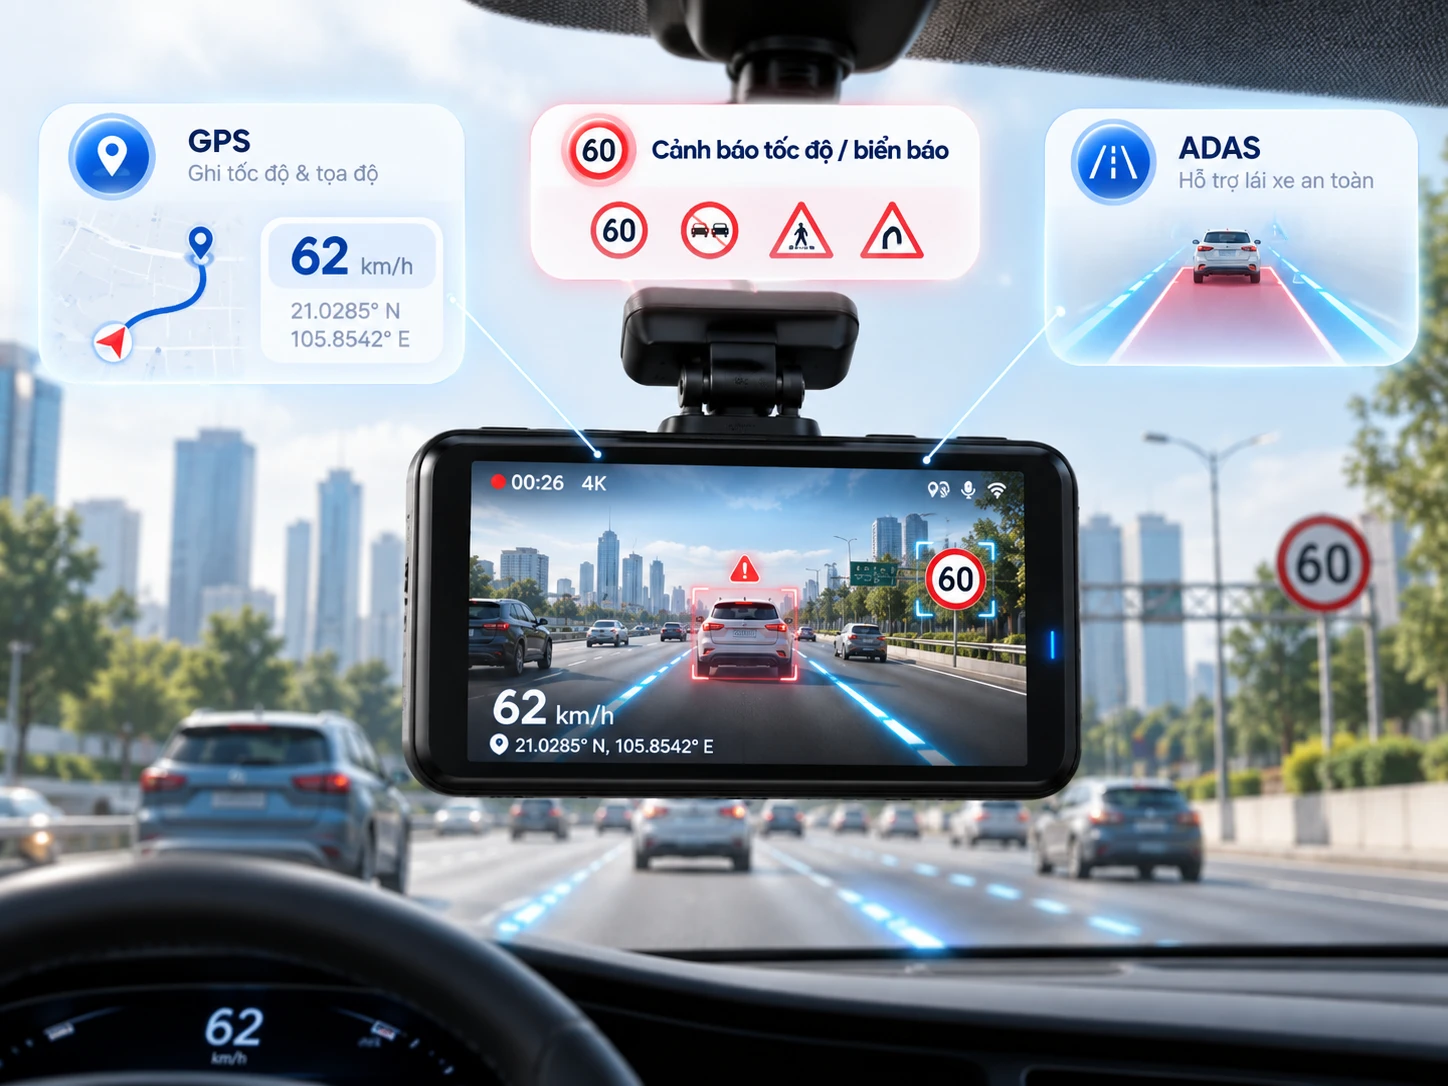
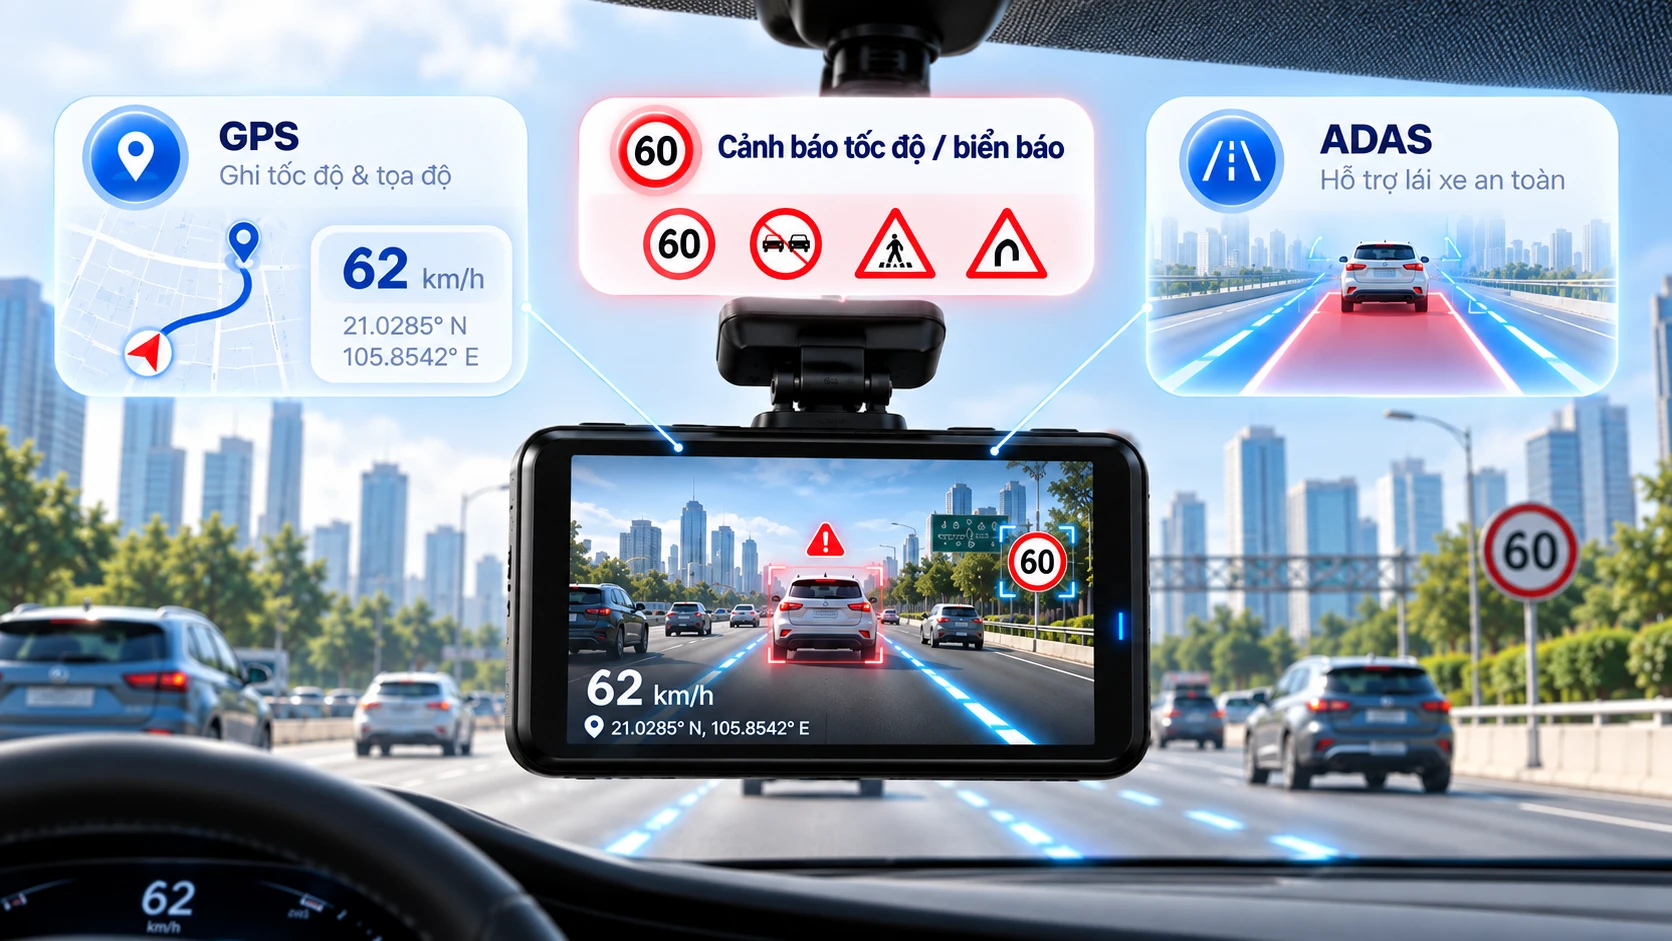
Replace GPS/ADAS infographic with wider 16:9 version
The previous 1448x1086 image was too tall relative to the split
layout's 16:9-ish column, so object-fit:cover cropped off the GPS
panel on the left. Swap in the new 1672x941 infographic (matching
the aspect ratio used by the other blocks) and update the width/
height attributes to match.

diff --git a/auto365/camera-hanh-trinh-v2/index.html b/auto365/camera-hanh-trinh-v2/index.html
@@ -2216,7 +2216,7 @@ h1{font-weight:500;letter-spacing:-2.2px}
 <article class="tech-qa-block">
 <h3>3. GPS, cảnh báo tốc độ và ADAS khác nhau thế nào?</h3>
 <div class="tech-qa-split">
-<div class="tech-qa-media"><img src="hinh/infographic-gps-adas.webp" alt="So sánh GPS, cảnh báo tốc độ/biển báo và ADAS trên camera hành trình: GPS ghi tốc độ và tọa độ, cảnh báo tốc độ nhắc giới hạn theo phần mềm, ADAS hỗ trợ lái như cảnh báo lệch làn và va chạm" loading="lazy" width="1448" height="1086" decoding="async" class="tech-qa-infographic"></div>
+<div class="tech-qa-media"><img src="hinh/infographic-gps-adas.webp" alt="So sánh GPS, cảnh báo tốc độ/biển báo và ADAS trên camera hành trình: GPS ghi tốc độ và tọa độ, cảnh báo tốc độ nhắc giới hạn theo phần mềm, ADAS hỗ trợ lái như cảnh báo lệch làn và va chạm" loading="lazy" width="1672" height="941" decoding="async" class="tech-qa-infographic"></div>
 <div class="tech-qa-body">
 <div class="tech-compare-3col">
 <div class="tech-compare-col">
